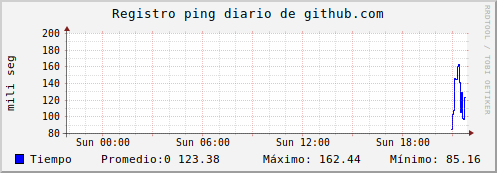
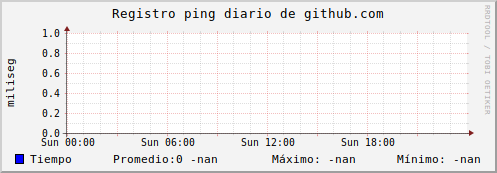
Ahora entiendo todo

diff --git a/ping-poller/graficar.py b/ping-poller/graficar.py
@@ -10,8 +10,8 @@ def graficar():
         titulo = "Ping de {}".format(direccion)
         nombre_img = "{}/{}-actual.png".format(RUTA, direccion)
         rrd_graph(nombre_img,
-                  "--vertical-label", "mili seg",
-                  "--start", "-30m",
+                  "--vertical-label", "miliseg",
+                  "--start", "-1h",
                   "--title", titulo,
                   "DEF:mitiempo={}:tiempo:AVERAGE".format(archivo_rrd),
                   "LINE1:mitiempo#FF0000:Tiempo",
@@ -19,16 +19,14 @@ def graficar():
                   "GPRINT:mitiempo:MAX:Máximo\: %.3lf",
                   "GPRINT:mitiempo:MIN:Mínimo\: %.3lf")
 
-        for sched in ['diario', 'semanal']:
-            if sched == 'diario':
-                period = 'd'
-            elif sched == 'semanal':
-                period = 'w'
-            # print("{} - {}".format(direccion, sched))
-            nombre_img = "{}/{}-{}.png".format(RUTA, direccion, sched)
-            titulo = "Registro ping {} de {}".format(sched, direccion)
-            rrd_graph(nombre_img, "--start", "-1{}".format(period),
-                      "--vertical-label=mili seg",
+        for intervalo in ['diario']:
+            if intervalo == 'diario':
+                etiqueta = 'd'
+            # print("{} - {}".format(direccion, intervalo))
+            nombre_img = "{}/{}-{}.png".format(RUTA, direccion, intervalo)
+            titulo = "Registro ping {} de {}".format(intervalo, direccion)
+            rrd_graph(nombre_img, "--start", "-1{}".format(etiqueta),
+                      "--vertical-label=miliseg",
                       "--title", titulo,
                       "DEF:mi_tiempo={}:tiempo:AVERAGE".format(archivo_rrd),
                       "LINE1:mi_tiempo#0000FF:Tiempo",

diff --git a/ping-poller/ping-poller.py b/ping-poller/ping-poller.py
@@ -11,21 +11,25 @@ RUTA = "/home/tona/Documents/sexto/redes3/ping-poller"
 
 
 def crear_base():
-    # RRA:AVERAGE:0.5:1:24
+    # Espera 120 segundos antes de que se guarde como NaN
+    # RRA:AVERAGE:0.5:1:60
     # 0.5 = porcentaje de PDP que pueden ser desconocidos
-    # 5  = PDP que se utilizan, cada actualizacion es un PDP
-    # 48 = Cuantos PDP se guardan
-    # 1 min (60 s) * 5 PDP = 5 min intervalo en el que se guarda un registro de los 48
-    # Toma (5 min * 48 registros) = 240 min =  4 hrs llenar los 48 registros
-    # Por lo que almacenamos 4 horas de info
+    # 1  = PDP que se utilizan, cada actualizacion es un PDP
+    # 60 = Cuantos PDP se guardan
+    # 1 min (60 s) * 1 PDP = 1 min intervalo en el que se guarda un registro de los 60
+    # Toma (1 min * 60 registros) = 60 min llenar los 60 registros
+    # Por lo que almacenamos 60 min de info
     for direccion in DIRECCIONES:
         archivo = "{}/{}.rrd".format(RUTA, direccion)
         if not os.path.isfile(archivo):
             base_rrd = rrd_create(archivo, "--start", "N", "--step", "60",
                                   "DS:tiempo:GAUGE:120:0:U",
-                                  "RRA:MIN:0.5:5:48",
-                                  "RRA:MAX:0.5:5:48",
-                                  "RRA:AVERAGE:0.5:1:48")
+                                  "RRA:MIN:0.5:5:12",
+                                  "RRA:MAX:0.5:5:12",
+                                  "RRA:MIN:0.5:60:24",
+                                  "RRA:MAX:0.5:60:24",
+                                  "RRA:AVERAGE:0.5:1:60",
+                                  "RRA:AVERAGE:0.5:1:1440")
 
 
 def actualizacion():
